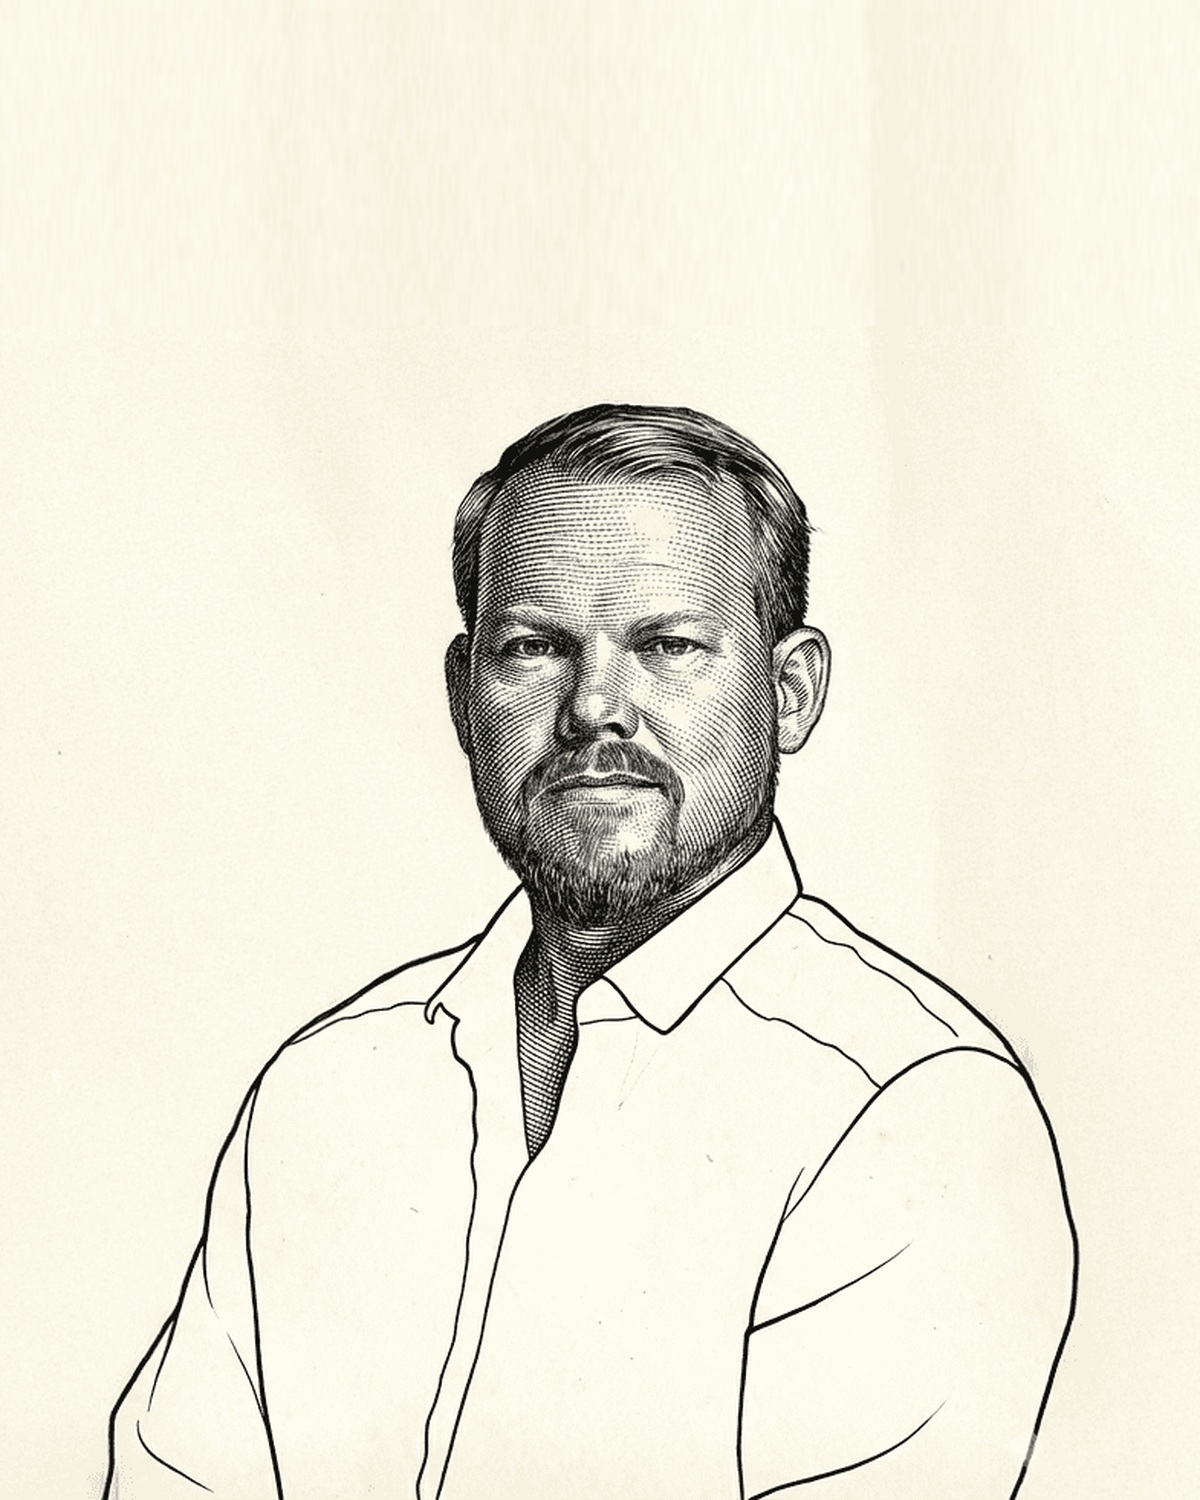
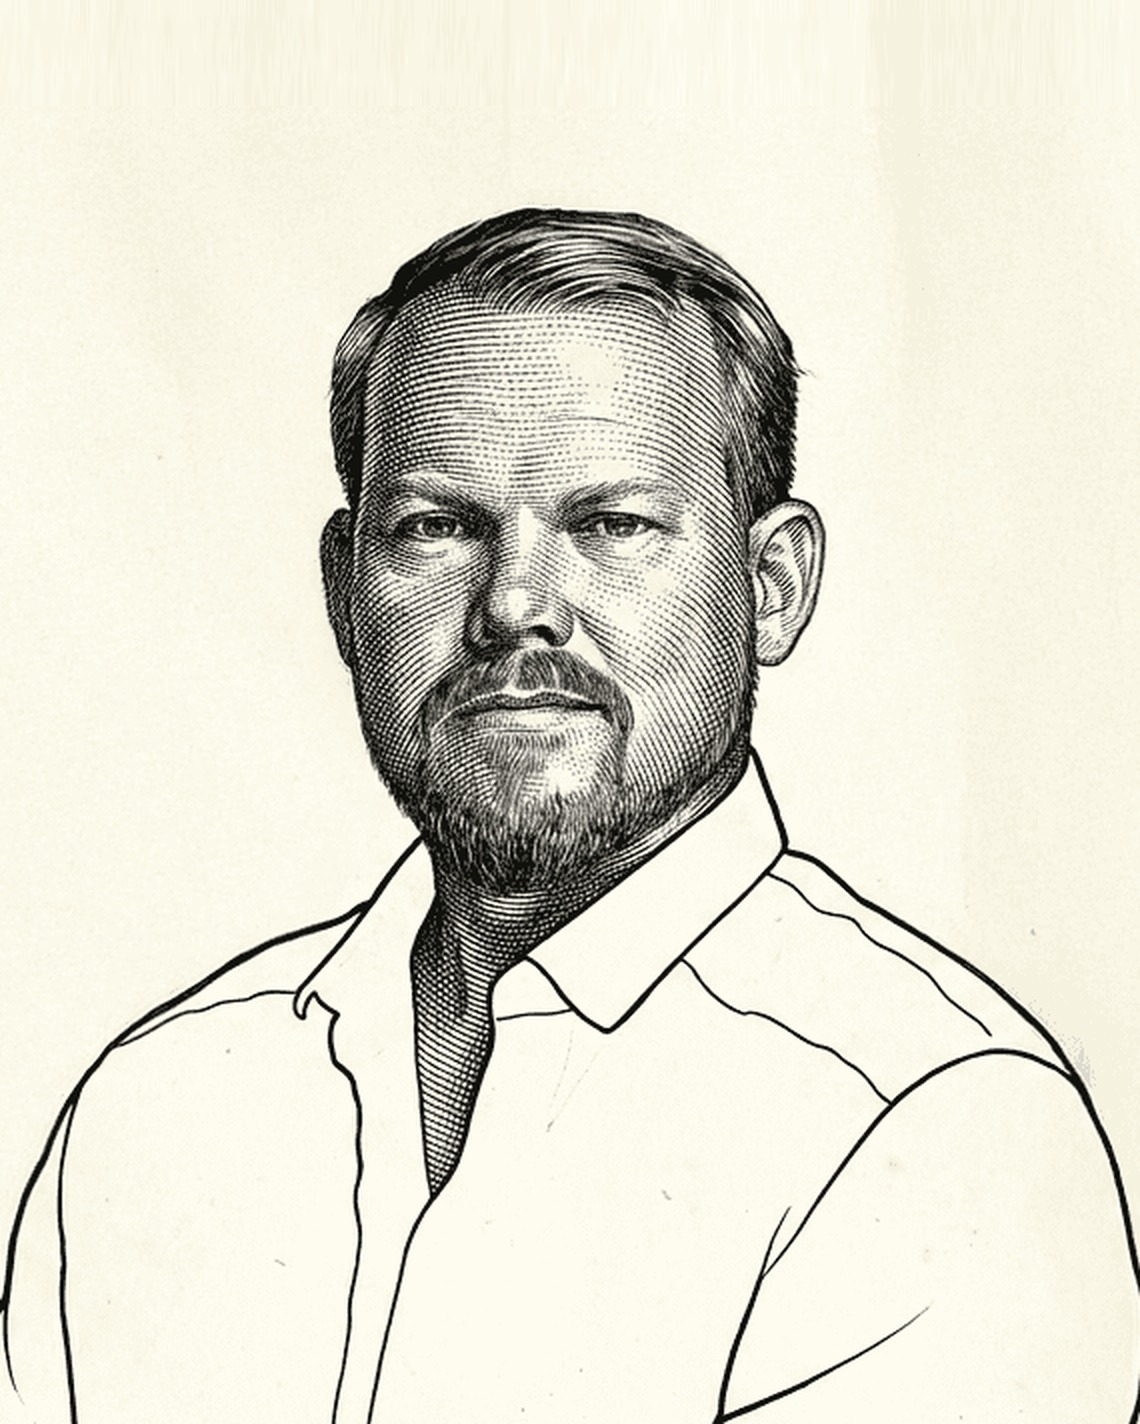
Hero portrait: the head fills the frame
The owner marked up the scale they wanted: head about 43% of the frame's
width, centred about 39% down. The previous portrait-hero.jpg was the cause
of the dead space — it extended the paper above the head so the whole drawing
would clear a 4:5 frame. This recomposes from the original scan: a 570x712
window on the head and shoulders, with 53px of paper extended above the top
edge rather than several hundred, rendered at 2x. Measured from the ink
itself, not eyeballed.

object-position moves from top to 50% 30%, so the taller-than-4:5 desktop
frame crops from the shoulders. Verified at 1440, 820 and 390 wide.

diff --git a/src/components/Hero.tsx b/src/components/Hero.tsx
@@ -222,7 +222,7 @@ export default function Hero() {
                   fill
                   sizes="(max-width: 1024px) 640px, 900px"
                   priority
-                  className="object-cover object-top"
+                  className="object-cover object-[50%_30%]"
                 />
                 <span
                   aria-hidden
